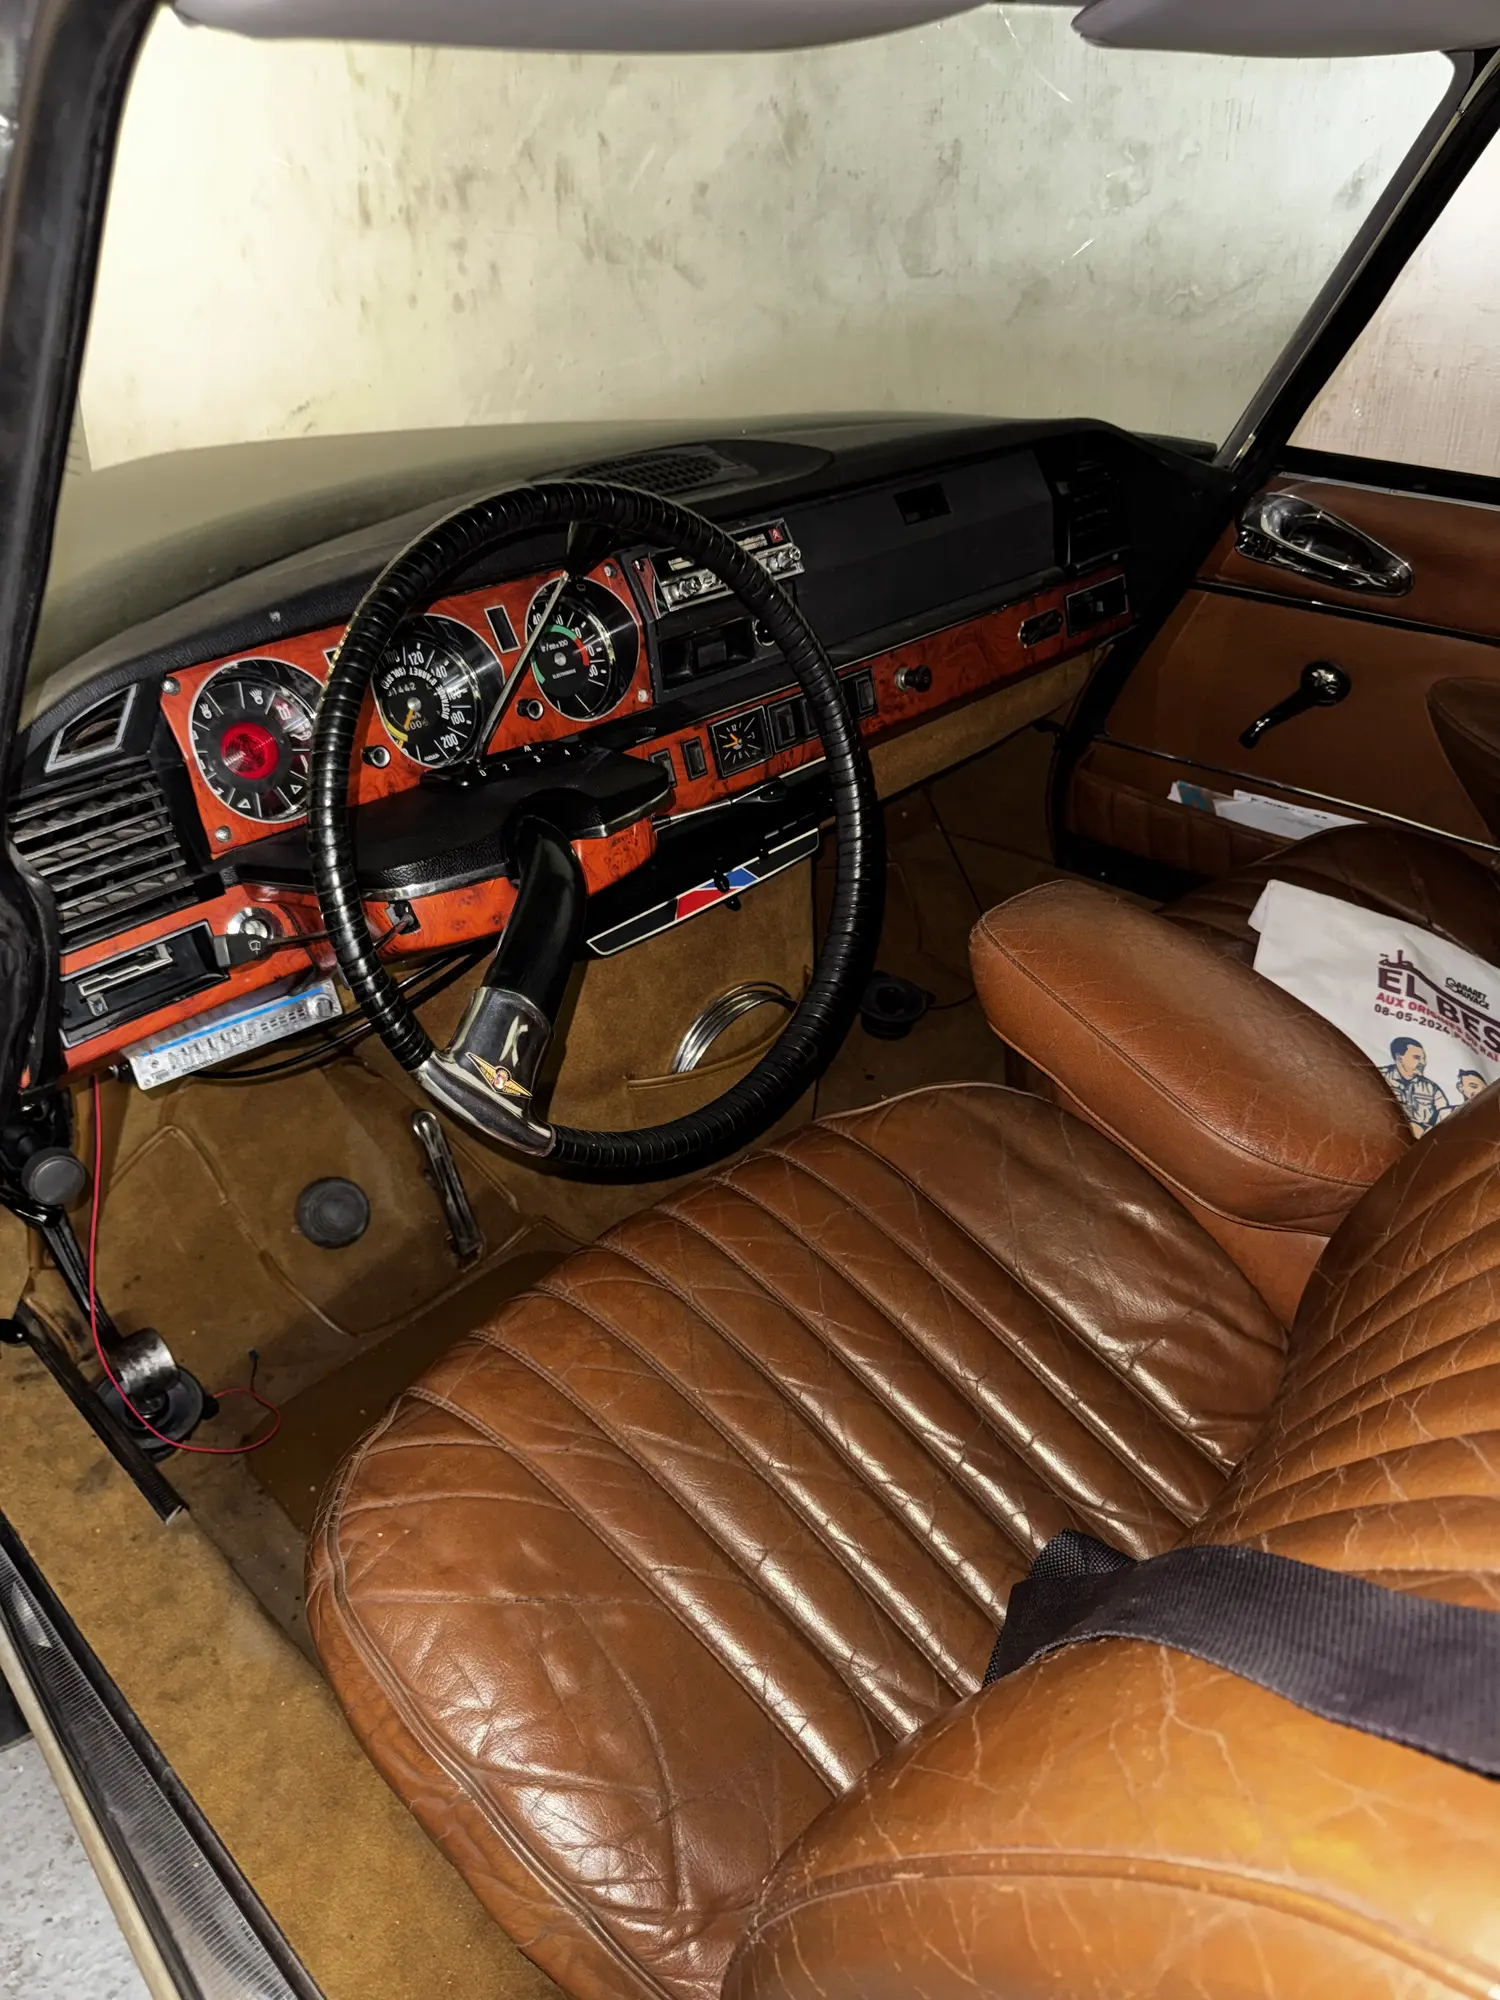
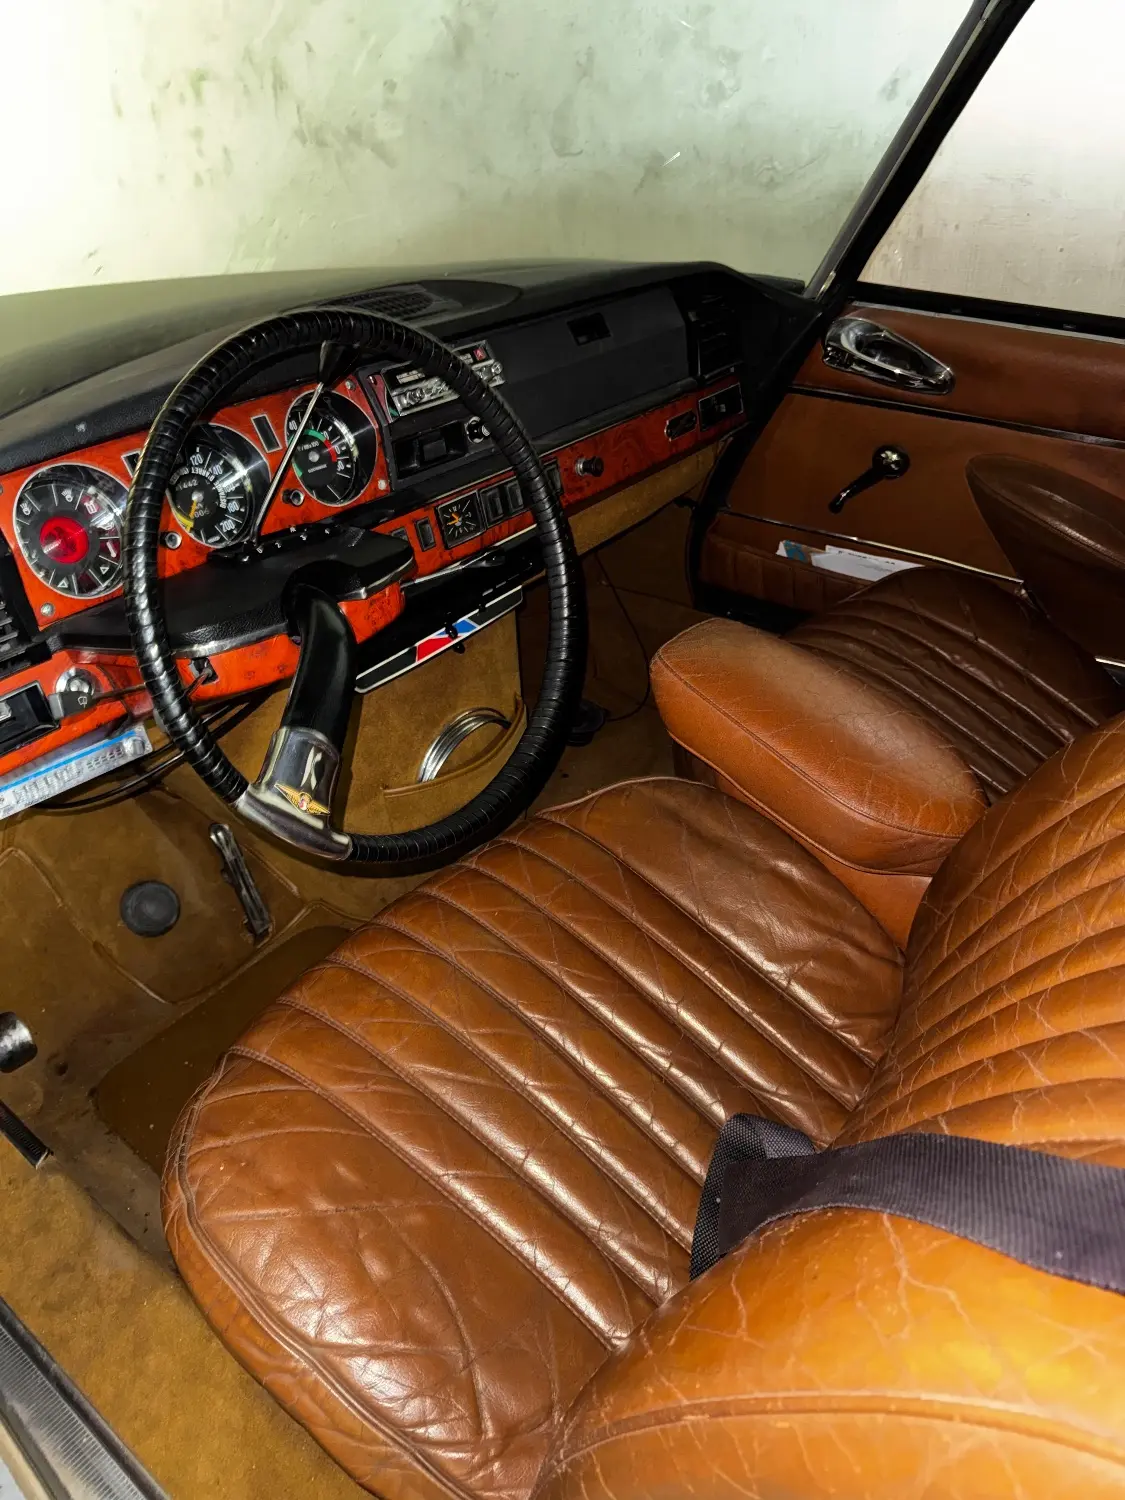
Citroën DS 21: two new sheet photos; 3D model with a flat overhanging roof and prominent faired headlamps
- Sheet photos 1 (three-quarter front, plate blurred) and 4 (cabin) replaced with the owner's new
  photos; originals kept in references/DS21/Illu.
- 3D model: flat, thin roof cap overhanging the glasshouse and the rear window, trumpet lamps at its
  rear corners, more upright and flatter glasshouse (new optional glass.crown); headlamps rebuilt as
  large chrome-rimmed glass fairings standing out of the wing tips, two round lamps deep inside a
  dark well.

Claude-Session: https://claude.ai/code/session_014T3PA9EPttZwtbaPWpaHtJ

diff --git a/src/scene/models/ds.ts b/src/scene/models/ds.ts
@@ -8,23 +8,27 @@ import { badgeTexture, tube, type P3 } from '../geometry';
 import type { CarKit } from '../kit';
 
 export function details(k: CarKit) {
-  const { body, mats, curves: { be, hw }, gh, railT, nx, tx, bumper, plate, surfX, topY, yawAt, lay, lampPoints } = k;
+  const { body, mats, curves: { be, hw }, gh, nx, tx, bumper, plate, surfX, topY, yawAt, lay, lampPoints } = k;
   const { chrome, dark, black, gold, crease, lens, amber, red } = mats;
-  const globe = new MeshPhysicalMaterial({ color: 0xffffff, roughness: .02, transparent: true, opacity: .2, clearcoat: 1, clearcoatRoughness: .02, envMap: mats.env, envMapIntensity: 1.6, depthWrite: false });
+  const globe = new MeshPhysicalMaterial({ color: 0xe8eef0, roughness: .02, transparent: true, opacity: .32, clearcoat: 1, clearcoatRoughness: .02, envMap: mats.env, envMapIntensity: 1.6, depthWrite: false });
 
   [1, -1].forEach((sg) => {
-    const pods: [number, number][] = [[.665, .095], [.47, .078]];
-    pods.forEach(([z, r]) => {
-      const x = surfX(z, true) + .06;
-      const g = new Group(); g.position.set(x, .635, sg * z); g.rotation.y = sg * yawAt(x); body.add(g);
-      const ring = new Mesh(new TorusGeometry(r, r * .1, 8, 32), chrome); ring.rotation.y = Math.PI / 2; g.add(ring);
-      const cup = new Mesh(new SphereGeometry(r * .96, 24, 12, 0, Math.PI * 2, 0, Math.PI / 2), chrome); cup.rotation.z = -Math.PI / 2; cup.scale.y = .55; cup.position.x = .012; g.add(cup);
-      const bulb = new Mesh(new SphereGeometry(r * .9, 24, 12), lens); bulb.scale.set(.32, 1, 1); bulb.position.x = -.004; g.add(bulb);
-      lampPoints.push([x - .03, .635, sg * z]);
+    /* Phares carénés : sous un grand globe en verre cerclé de chrome, qui prolonge la pointe de l'aile et sort
+       nettement de la carrosserie, deux optiques rondes au fond d'une cuvette sombre (la grande à l'extérieur,
+       jaune, la plus petite vers le capot). */
+    const zm = .575; const xm = surfX(zm, true) + .02; const ly = .64; const yaw = sg * yawAt(xm);
+    const unit = new Group(); unit.position.set(xm, ly, sg * zm); unit.rotation.y = yaw; body.add(unit);
+    const well = new Mesh(new SphereGeometry(1, 36, 18, 0, Math.PI), dark); well.scale.set(.205, .1, .07); well.rotation.y = Math.PI / 2; well.position.x = .03; unit.add(well);
+    ([[.095, .085], [-.085, .07]] as [number, number][]).forEach(([dz, r]) => {
+      const zz = sg * dz;
+      const bowl = new Mesh(new SphereGeometry(r, 24, 12, 0, Math.PI * 2, 0, Math.PI / 2), chrome); bowl.rotation.z = -Math.PI / 2; bowl.scale.y = .6; bowl.position.set(.02, 0, zz); unit.add(bowl);
+      const bulb = new Mesh(new SphereGeometry(r * .82, 24, 12), lens); bulb.scale.set(.3, 1, 1); bulb.position.set(.005, 0, zz); unit.add(bulb);
+      const rim = new Mesh(new TorusGeometry(r, r * .08, 8, 32), chrome); rim.rotation.y = Math.PI / 2; rim.position.set(.002, 0, zz); unit.add(rim);
+      lampPoints.push([xm - .04, ly, sg * (zm + dz)]);
     });
-    /* le globe couvre les deux optiques, dans le galbe de l'aile */
-    const zm = .565; const xm = surfX(zm, true) + .045;
-    const fair = new Mesh(new SphereGeometry(1, 36, 18), globe); fair.scale.set(.055, .11, .215); fair.position.set(xm, .635, sg * zm); fair.rotation.y = sg * yawAt(xm); fair.renderOrder = 6; body.add(fair);
+    /* le globe, bien visible : verre teinté et reflets, en saillie devant les optiques */
+    const fair = new Mesh(new SphereGeometry(1, 40, 20, 0, Math.PI), globe); fair.scale.set(.215, .108, .085); fair.rotation.y = -Math.PI / 2; fair.position.x = .02; fair.renderOrder = 6; unit.add(fair);
+    const ring = new Mesh(new TorusGeometry(1, .06, 8, 48), chrome); ring.scale.set(.215, .108, 1); ring.rotation.y = Math.PI / 2; ring.position.x = .02; unit.add(ring);
     /* clignotant à l'angle, sous l'optique */
     const xa = surfX(.74, true) + .03;
     const blink = new Mesh(new SphereGeometry(.05, 16, 10), amber); blink.scale.set(.35, .45, 1); blink.position.set(xa, .5, sg * .74); blink.rotation.y = sg * yawAt(xa); body.add(blink);
@@ -41,8 +45,6 @@ export function details(k: CarKit) {
     const tl = plate(xr + .016, .58, sg * .36, .2, .075, .01, red, .012); tl.rotation.y = Math.PI / 2;
     const xc = surfX(.5, false) - .01;
     const cat = new Mesh(new CylinderGeometry(.026, .026, .012, 18), red); cat.rotation.z = Math.PI / 2; cat.position.set(xc + .006, .5, sg * .5); body.add(cat);
-    /* feux en trompette en haut des montants arrière */
-    const tr = new Mesh(new CylinderGeometry(.036, .016, .2, 14), amber); tr.rotation.z = Math.PI / 2 - .05; const [z, y] = gh(1.04, railT - .03); tr.position.set(1.12, y - .004, sg * (z + .012)); body.add(tr);
   });
   /* pare-chocs : avant à creux central, arrière bas ; prise d'air noire sous l'avant */
   bumper(nx + .04, .41, .055, .04, .7, .7);
@@ -59,4 +61,23 @@ export function details(k: CarKit) {
   [0, .042].forEach((dx) => lay(new Mesh(chevG, gold), 2.06 + dx, 0));
   const ds21 = badgeTexture('DS21', '#d6b25c', 'italic 700 52px Georgia, serif');
   lay(new Mesh(new PlaneGeometry(.2, .05), new MeshBasicMaterial({ map: ds21, transparent: true, depthWrite: false })), 2.2, -.33, .006);
+
+  /* Le pavillon « casquette » : un toit plat et mince, posé sur le vitrage et qui le déborde tout autour,
+     prolongé au-dessus de la lunette ; les feux en trompette à ses coins arrière. */
+  const capMat = new MeshPhysicalMaterial({ color: 0x80858a, metalness: .45, roughness: .32, clearcoat: .8, clearcoatRoughness: .12, envMap: mats.env, envMapIntensity: 1 });
+  const gl = k.gl; const cx0 = gl.xb - .07; const cx1 = 1.2; const capY = gl.roofY - .006;
+  const capW = (x: number) => {
+    const [z] = gh(Math.min(x, gl.xc), .5); const w = z + .03;
+    const f = x < cx0 + .12 ? Math.sqrt(Math.max(0, 1 - ((cx0 + .12 - x) / .12) ** 2)) : x > cx1 - .05 ? Math.sqrt(Math.max(0, 1 - ((x - cx1 + .05) / .05) ** 2)) : 1;
+    return Math.max(.001, w * f);
+  };
+  const capShape = new Shape(); const steps = 40;
+  for (let i = 0; i <= steps; i++) { const x = lerp(cx0, cx1, i / steps); if (i) capShape.lineTo(x, capW(x)); else capShape.moveTo(x, capW(x)); }
+  for (let i = steps; i >= 0; i--) { const x = lerp(cx0, cx1, i / steps); capShape.lineTo(x, -capW(x)); }
+  const cap = new Mesh(new ExtrudeGeometry(capShape, { depth: .028, bevelEnabled: true, bevelThickness: .009, bevelSize: .012, bevelSegments: 3, curveSegments: 4 }), capMat);
+  cap.rotation.x = -Math.PI / 2; cap.position.y = capY; body.add(cap);
+  [1, -1].forEach((sg) => {
+    const z = capW(cx1 - .08) - .02;
+    const tr = new Mesh(new CylinderGeometry(.03, .014, .17, 14), red); tr.rotation.z = Math.PI / 2; tr.position.set(cx1 - .06, capY + .012, sg * z); body.add(tr);
+  });
 }

diff --git a/src/data/vehicles.ts b/src/data/vehicles.ts
@@ -113,14 +113,15 @@ export const vehicles: Vehicle[] = [
     // Photos of the collection car, supplied by the owner (references/DS21/Illu), licence plates blurred.
     image: {
       src: 'images/collection/citroen-ds-1-trois-quarts-avant.webp',
-      width: 839,
-      height: 475,
+      srcSet: 'images/collection/citroen-ds-1-trois-quarts-avant-900.webp 675w, images/collection/citroen-ds-1-trois-quarts-avant.webp 1125w',
+      width: 1125,
+      height: 1500,
       alt: {
         en: 'The anthracite grey Citroën DS 21 of the collection, three-quarter front view',
         fr: 'La Citroën DS 21 gris anthracite de la collection, vue de trois-quarts avant',
       },
       caption: { en: 'Three-quarter front', fr: 'Trois-quarts avant' },
-      focalPoint: '12% 50%',
+      focalPoint: '50% 68%',
     },
     gallery: [
       {
@@ -148,9 +149,9 @@ export const vehicles: Vehicle[] = [
       },
       {
         src: 'images/collection/citroen-ds-4-habitacle.webp',
-        srcSet: 'images/collection/citroen-ds-4-habitacle-900.webp 675w, images/collection/citroen-ds-4-habitacle.webp 1500w',
-        width: 1500,
-        height: 2000,
+        srcSet: 'images/collection/citroen-ds-4-habitacle-900.webp 675w, images/collection/citroen-ds-4-habitacle.webp 1125w',
+        width: 1125,
+        height: 1500,
         alt: {
           en: 'Cabin of the Citroën DS 21: single-spoke steering wheel, dashboard and tan leather seats',
           fr: 'L’habitacle de la Citroën DS 21 : volant monobranche, planche de bord et sièges en cuir fauve',

diff --git a/src/scene/carspecs.ts b/src/scene/carspecs.ts
@@ -12,7 +12,7 @@ export interface CarSpec {
   roof?: { color: number; metalness: number; roughness: number };
   axles: number[]; arch: Pt[]; trackZ: number[];
   floor: Pt[]; belt: Pt[]; deck: Pt[]; hw: Pt[];
-  glass: { xa: number; xb: number; xc: number; xd: number; roofY: number; baseY: number; tailY: number; tumble: number };
+  glass: { xa: number; xb: number; xc: number; xd: number; roofY: number; baseY: number; tailY: number; tumble: number; /** bombé du haut du vitrage (0,055 par défaut) */ crown?: number };
   lensColor?: number;
   pillars: [number, number, number, number][];
   cPillar: [number, number, number, number];
@@ -60,7 +60,7 @@ export const SPECS: Record<CarModelKey, CarSpec> = {
     belt: [[-2.42, .55], [-2.3, .62], [-1.9, .74], [-1.0, .87], [0, .93], [1.2, .98], [1.9, .93], [2.3, .79], [2.42, .68]],
     deck: [[-2.42, .58], [-2.3, .66], [-1.9, .77], [-1.3, .88], [-.86, .95], [1.4, 1.05], [1.95, .99], [2.3, .84], [2.42, .72]],
     hw: [[-2.42, .38], [-2.4, .6], [-2.35, .73], [-2.25, .81], [-2.1, .86], [-1.8, .885], [-.8, .895], [.5, .895], [1.5, .85], [2.05, .74], [2.3, .62], [2.42, .52]],
-    glass: { xa: -.86, xb: -.1, xc: 1.02, xd: 2.0, roofY: 1.47, baseY: .98, tailY: 1.04, tumble: .74 },
+    glass: { xa: -.86, xb: -.1, xc: 1.02, xd: 2.0, roofY: 1.43, baseY: .98, tailY: 1.03, tumble: .86, crown: .012 },
     lensColor: 0xf2cf5a,
     pillars: [[-.04, .02, -.06, -.02], [.98, 1.03, .85, .92]],
     cPillar: [1.62, 1.84, 1.0, 1.12],

diff --git a/src/scene/kit.ts b/src/scene/kit.ts
@@ -45,7 +45,7 @@ export function buildBody(s: CarSpec, mats: CarMaterials, curves: CarCurves) {
   /** Coupe du vitrage à l'abscisse x : t = 0 à la ceinture, t = 1 au milieu du toit. */
   const gh = (x: number, t: number): Pt => {
     const yb = Math.min(be(x), de(x)) - .025; const yt = Math.max(roofY(x), yb + .001); const wb = hw(x) * .955; const wt = wb * gl.tumble;
-    const crown = .055 * Math.min(1, (yt - yb) / .3);
+    const crown = (gl.crown ?? .055) * Math.min(1, (yt - yb) / .3);
     const c = catmull([[wb, yb], [lerp(wb, wt, .55), lerp(yb, yt, .58)], [wt * 1.0, yt - crown], [wt * .62, yt - crown * .22], [0, yt]], 40);
     return c[Math.round(t * 40)];
   };

diff --git a/README.md b/README.md
@@ -123,8 +123,8 @@ field filters basic bots.
 - Legal Notice & Privacy Policy texts (`legal` keys in `src/i18n/en.ts` and `fr.ts`).
 - Production domain in `index.html` (canonical, Open Graph URLs).
 - Photos of the Peugeot 504 in higher definition (current ones are 730 and 456 px wide).
-- Citroën DS: two sheet photos are small (839 and 1000 px wide); replace them with
-  full-resolution originals when available.
+- Citroën DS: the three-quarter rear sheet photo is small (1000 px wide); replace it
+  with a full-resolution original when available.
 - Exact version of the DS (provisional name and partial specs in `src/data/vehicles.ts`).
 - Section visuals are generated images, labelled “Illustrative image”; replace
   them with real photography when available.
